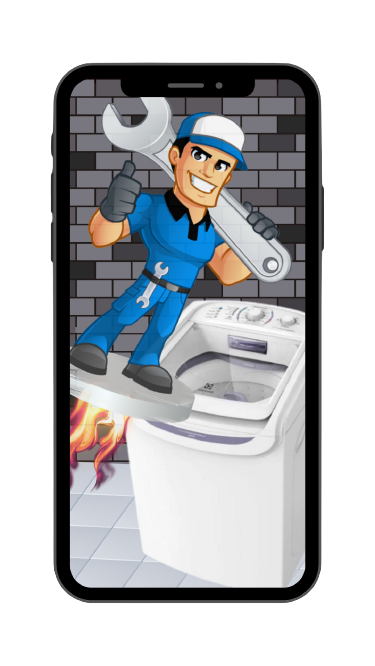
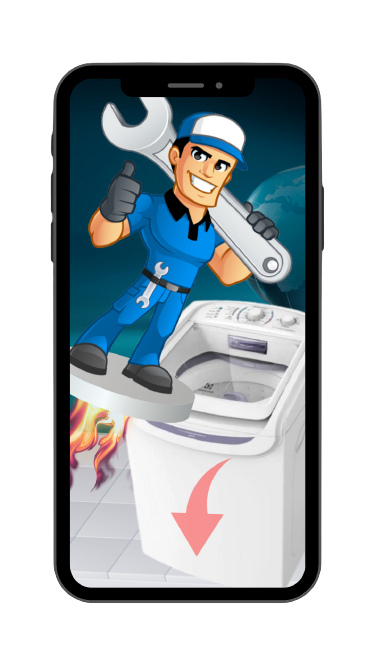
Add files via upload

diff --git a/Máquina de lavar google/index.html b/Máquina de lavar google/index.html
@@ -18,7 +18,7 @@
     <style type="text/css">
       body {
         color: white;
-        background-image: url("assets/img/globo.png");
+        background-image: url("assets/img/nave.png");
         background-color: rgba(0, 0, 0, 0.6);
         background-position: center;
         background-size: cover;
@@ -34,8 +34,16 @@
       <div class="container">
         <div class="row justify-content-center">
           <div class="col-lg-8 text-center">
+
+                        <!-- Mundial Refrigeração -->
+            <img class="img-fluid" src="./assets/img/tito.png">
+
             <!-- Mundial Refrigeração -->
             <img class="img-fluid" src="./assets/img/celu.png">
+            </b></h3>
+<p style = "font-family:Zapf-Chancery">
+Orçamento sem compromisso em Varginha MG!
+</p>
 
             <!-- Botão -->
             <div id="cta1" class="mt-4 d-none">
